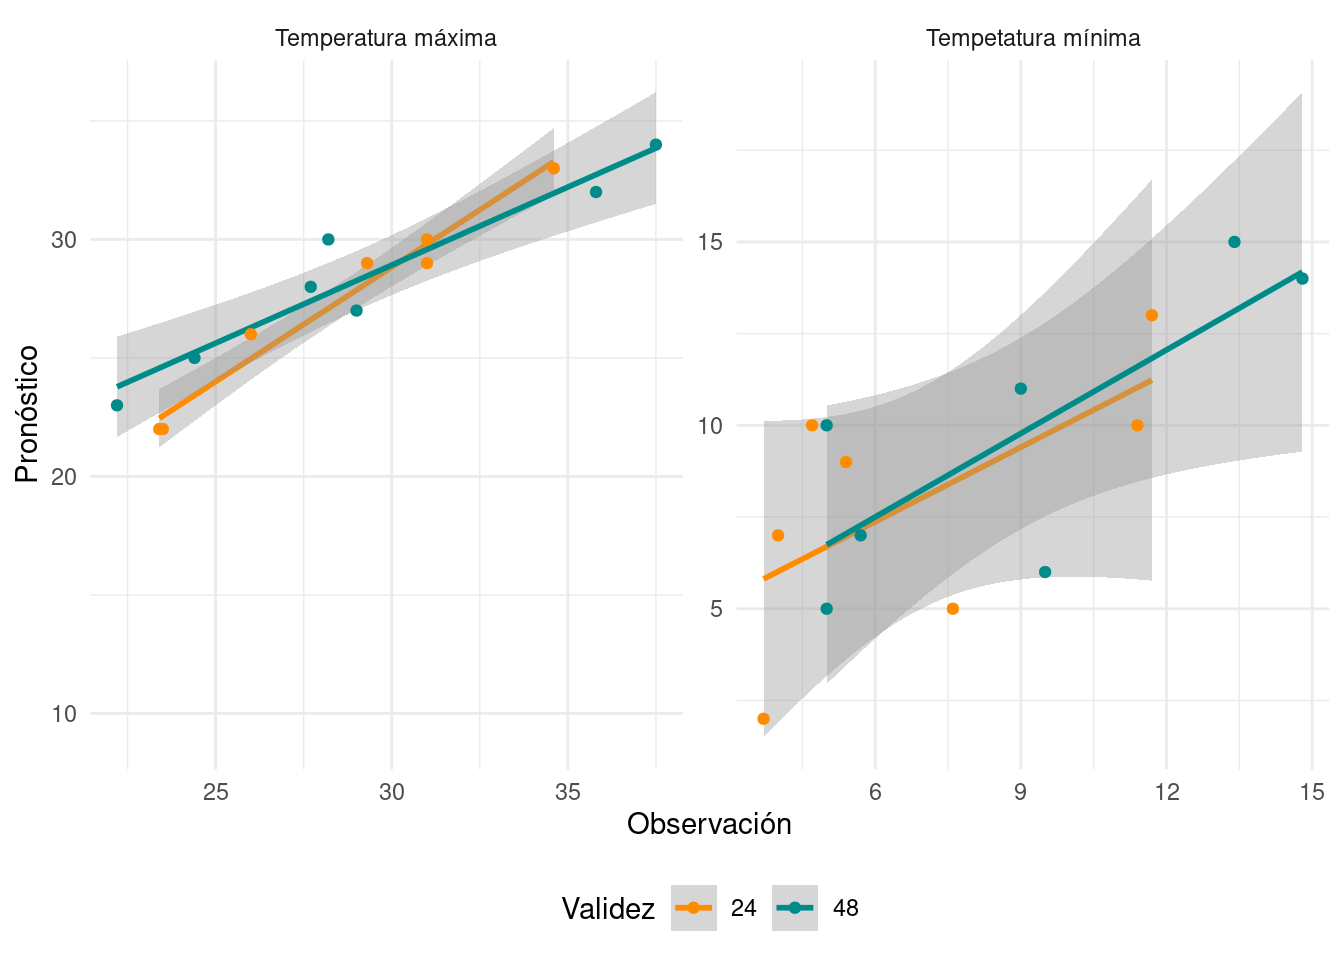
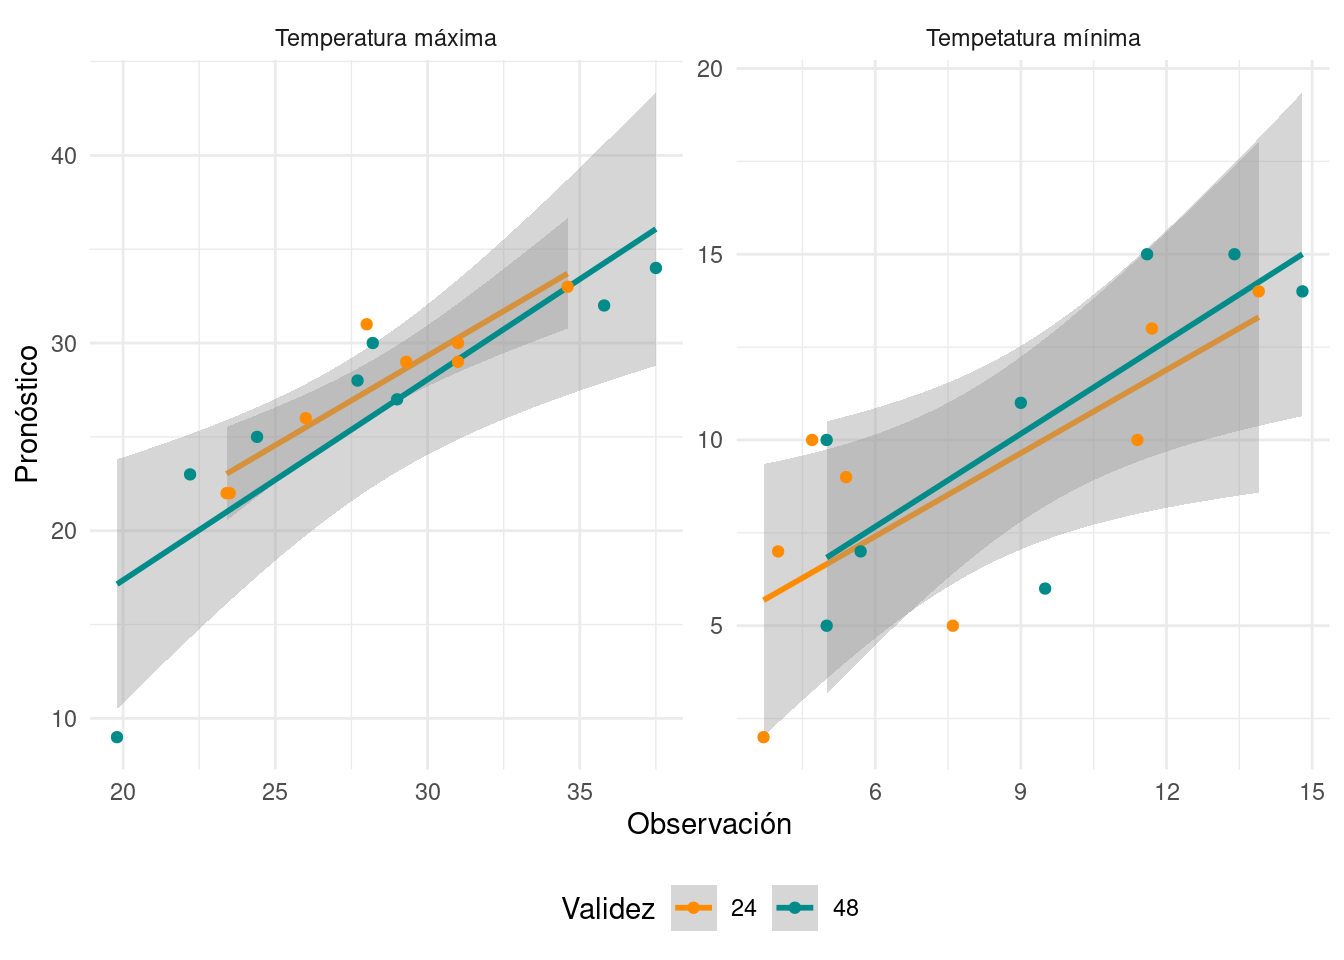
Pronosticos generados el 5/10

diff --git a/docs/index.html b/docs/index.html
@@ -307,8 +307,8 @@ $(document).ready(function () {
 </div>
 
 
-<div id="análisis-del-día-1-de-octubre-de-2020" class="section level2">
-<h2>Análisis del día 1 de octubre de 2020</h2>
+<div id="análisis-del-día-5-de-octubre-de-2020" class="section level2">
+<h2>Análisis del día 5 de octubre de 2020</h2>
 <div id="ciudad-de-buenos-aires" class="section level3">
 <h3>Ciudad de Buenos Aires</h3>
 <table class="table table-responsive" style="margin-left: auto; margin-right: auto;">
@@ -339,48 +339,48 @@ Viento
 <tbody>
 <tr>
 <td style="text-align:left;">
-02/10/2020
+06/10/2020
 </td>
 <td style="text-align:left;max-width: 22em; ">
-Se espera buen tiempo con cielo algo nublados por la mañana y parcialmente nublados por la tarde. Se espera una disminución de la temperatura respecto del dia anterior asociado a la presencia de viento regular a fuerte del sur con mínimas entre 7 y 8 grados y máxima entre 15 y 17 grados. La sensación térmica será entre 2 y 4 grados menor.
+Se esperan condiciones de buen tiempo con cielos algo nublados y posibles neblinas en el comienzo del día y con nubosidad en aumento durante la tarde. La temperatura mínima podría descender hasta los 9 grados y la máxima rondará entre los 19 y los 20 grados. El viento será dominante del sector N y NE
 </td>
 <td style="text-align:center;color: red !important;">
-16 °
+20 °
 </td>
 <td style="text-align:center;color: blue !important;">
-8 °
+9 °
 </td>
 <td style="text-align:center;max-width: 7em; ">
 Parcialmente nublado
 </td>
 <td style="text-align:center;">
-S
+NE
 </td>
 <td style="text-align:center;">
-<img src="img/parcialmente-nublado.png" width="60" />
+<img src="img/neblina.png" width="60" />
 </td>
 </tr>
 <tr>
 <td style="text-align:left;">
-03/10/2020
+07/10/2020
 </td>
 <td style="text-align:left;max-width: 22em; ">
-Se espera que continue el viento sostenido del SE favoreciendo una mayor disminución de la temperatura con una minína entre 6 y 7 grados y la máxima alrededor de 13 grados
+Se esperan condiciones de buen tiempo con cielos algo nublados durante el día. Las temperaturas aumentarán respecto del día previo debido a una disminución de a nubosidad y al viento predominante del norte. Maximas entre 22 y 24 grados y minima entre 11 y 14 grados.
 </td>
 <td style="text-align:center;color: red !important;">
-13 °
+23 °
 </td>
 <td style="text-align:center;color: blue !important;">
-6 °
+12 °
 </td>
 <td style="text-align:center;max-width: 7em; ">
-Parcialmente nublado
+Algo nublado
 </td>
 <td style="text-align:center;">
-SE
+N
 </td>
 <td style="text-align:center;">
-<img src="img/parcialmente-nublado.png" width="60" />
+<img src="img/algo-nublado.png" width="60" />
 </td>
 </tr>
 </tbody>
@@ -416,39 +416,16 @@ Viento
 <tbody>
 <tr>
 <td style="text-align:left;">
-02/10/2020
+06/10/2020
 </td>
 <td style="text-align:left;max-width: 22em; ">
-Se espera un día algo nublado con vientos leves del SE aumentando por la tarde a moderados y rotando hacia el E. La temperatura máxima se espera del orden de los 30 grados mientras que la mínima estará entre 13 y 15°. Se espera además nubosidad alta durante la madrugada y parte del día.
+Se espera buen tiempo con cielos parcialmente nublados principalmente por la noche. Duante el día se espera vientos levens predominantes del E. Minima entre 8 y 10 grados y máxima entre 27 y 29 grados.
 </td>
 <td style="text-align:center;color: red !important;">
-31 °
+28 °
 </td>
 <td style="text-align:center;color: blue !important;">
-14 °
-</td>
-<td style="text-align:center;max-width: 7em; ">
-Algo nublado
-</td>
-<td style="text-align:center;">
-NE
-</td>
-<td style="text-align:center;">
-<img src="img/algo-nublado.png" width="60" />
-</td>
-</tr>
-<tr>
-<td style="text-align:left;">
-03/10/2020
-</td>
-<td style="text-align:left;max-width: 22em; ">
-Se espera un día mayormente nublado y vientos leves del sector este. La temperatura disminuirá gracias al desplazamiento de una masa de aire más fría generando temperaturas mńimas de entre 8 y 10 grados y máxima de entre 14 y 16. Por la tarde se espera un aumento de la nubosidad y baja probabilidad de chaparrones.
-</td>
-<td style="text-align:center;color: red !important;">
-9 °
-</td>
-<td style="text-align:center;color: blue !important;">
-15 °
+10 °
 </td>
 <td style="text-align:center;max-width: 7em; ">
 Mayormente nublado
@@ -457,7 +434,30 @@ Mayormente nublado
 E
 </td>
 <td style="text-align:center;">
-<img src="img/nublado.png" width="60" />
+<img src="img/mayormente-nublado.png" width="60" />
+</td>
+</tr>
+<tr>
+<td style="text-align:left;">
+07/10/2020
+</td>
+<td style="text-align:left;max-width: 22em; ">
+Se espera buen tiempo con cielos algo nublados durante el día. El viento será leve a moderado del N rotando al E durante el día. Se espera un aumento de la temperatura con mínimas de entre 11 y 13 grados y máxima entre 29 y 30.
+</td>
+<td style="text-align:center;color: red !important;">
+30 °
+</td>
+<td style="text-align:center;color: blue !important;">
+13 °
+</td>
+<td style="text-align:center;max-width: 7em; ">
+Algo nublado
+</td>
+<td style="text-align:center;">
+N-E
+</td>
+<td style="text-align:center;">
+<img src="img/algo-nublado.png" width="60" />
 </td>
 </tr>
 </tbody>
@@ -493,48 +493,48 @@ Viento
 <tbody>
 <tr>
 <td style="text-align:left;">
-02/10/2020
+06/10/2020
 </td>
 <td style="text-align:left;max-width: 22em; ">
-Se espera buen tiempo con algo de nubosidad y viento moderado a regular del sur y ráfagas de entre 30 y 40 km/h. La temperatura disminuirá respecto de días anteriores debido al viento con mínima entre 8 y 10 grados y máxima entre 18 y 22.
+Se esperan condiciones de buen tiempo con cielos algo nublados a parcialmente nublados durante ĺa noche y una disminución de la nubosidad durante el día. El viento será predominante del NE propiciando el aumento de las temperaturas con mínimas de entre 8 y 9 grados y máximas de entre 26 y 28.
 </td>
 <td style="text-align:center;color: red !important;">
-20 °
+27 °
 </td>
 <td style="text-align:center;color: blue !important;">
 9 °
 </td>
 <td style="text-align:center;max-width: 7em; ">
-Algo nublado
+algo nublado
 </td>
 <td style="text-align:center;">
-S
+NE
 </td>
 <td style="text-align:center;">
-<img src="img/ventoso.png" width="60" />
+<img src="img/algo-nublado.png" width="60" />
 </td>
 </tr>
 <tr>
 <td style="text-align:left;">
-03/10/2020
+07/10/2020
 </td>
 <td style="text-align:left;max-width: 22em; ">
-Se espera un día nublado con vientos moderados del S-SE generando una disminución marcada de la temperatura. Se espera poca amplitud térmica con minima de entre 6 y 8 grados y máxima de 12.
+Se espera un día con buen tiempo y cielos despajados o algo nublados. El viento será leve y predominante del E. Se espera un lijero aumento de las temperaturas con mínimas de entre 9 y 11 y máximas de entre 30 y 31 grados
 </td>
 <td style="text-align:center;color: red !important;">
-12 °
+31 °
 </td>
 <td style="text-align:center;color: blue !important;">
-7 °
+10 °
 </td>
 <td style="text-align:center;max-width: 7em; ">
-Nublado
+algo nublado
 </td>
 <td style="text-align:center;">
-SE
+E
 </td>
 <td style="text-align:center;">
-<img src="img/nublado.png" width="60" />
+<img src="img/algo-nublado.png" width="60" />
 </td>
 </tr>
 </tbody>

diff --git a/docs/buenos-aires-val.html b/docs/buenos-aires-val.html
@@ -344,13 +344,13 @@ RMSE
 Temperatura máxima
 </td>
 <td style="text-align:center;">
--0.95
+-0.98
 </td>
 <td style="text-align:center;">
-1.57
+1.53
 </td>
 <td style="text-align:center;">
-1.69
+1.58
 </td>
 </tr>
 <tr>
@@ -361,13 +361,13 @@ Temperatura máxima
 Temperatura máxima
 </td>
 <td style="text-align:center;">
--1.50
+-1.44
 </td>
 <td style="text-align:center;">
-1.50
+1.44
 </td>
 <td style="text-align:center;">
-0.98
+0.93
 </td>
 </tr>
 <tr>
@@ -378,13 +378,13 @@ Temperatura máxima
 Temperatura mínima
 </td>
 <td style="text-align:center;">
--1.29
+-1.14
 </td>
 <td style="text-align:center;">
-1.41
+1.26
 </td>
 <td style="text-align:center;">
-1.40
+1.38
 </td>
 </tr>
 <tr>
@@ -395,13 +395,13 @@ Temperatura mínima
 Temperatura mínima
 </td>
 <td style="text-align:center;">
-0.93
+0.90
 </td>
 <td style="text-align:center;">
-1.64
+1.52
 </td>
 <td style="text-align:center;">
-1.87
+1.73
 </td>
 </tr>
 </tbody>

diff --git a/docs/salta-aero-val.html b/docs/salta-aero-val.html
@@ -344,13 +344,13 @@ RMSE
 Temperatura máxima
 </td>
 <td style="text-align:center;">
--1.11
+-0.60
 </td>
 <td style="text-align:center;">
-1.11
+1.35
 </td>
 <td style="text-align:center;">
-0.73
+1.60
 </td>
 </tr>
 <tr>
@@ -361,13 +361,13 @@ Temperatura máxima
 Temperatura máxima
 </td>
 <td style="text-align:center;">
--0.83
+-2.07
 </td>
 <td style="text-align:center;">
-1.83
+2.95
 </td>
 <td style="text-align:center;">
-2.24
+4.09
 </td>
 </tr>
 <tr>
@@ -378,13 +378,13 @@ Temperatura máxima
 Temperatura mínima
 </td>
 <td style="text-align:center;">
-1.07
+0.95
 </td>
 <td style="text-align:center;">
-2.70
+2.38
 </td>
 <td style="text-align:center;">
-3.04
+2.83
 </td>
 </tr>
 <tr>
@@ -395,13 +395,13 @@ Temperatura mínima
 Temperatura mínima
 </td>
 <td style="text-align:center;">
-0.80
+1.12
 </td>
 <td style="text-align:center;">
-2.03
+2.20
 </td>
 <td style="text-align:center;">
-2.64
+2.61
 </td>
 </tr>
 </tbody>
